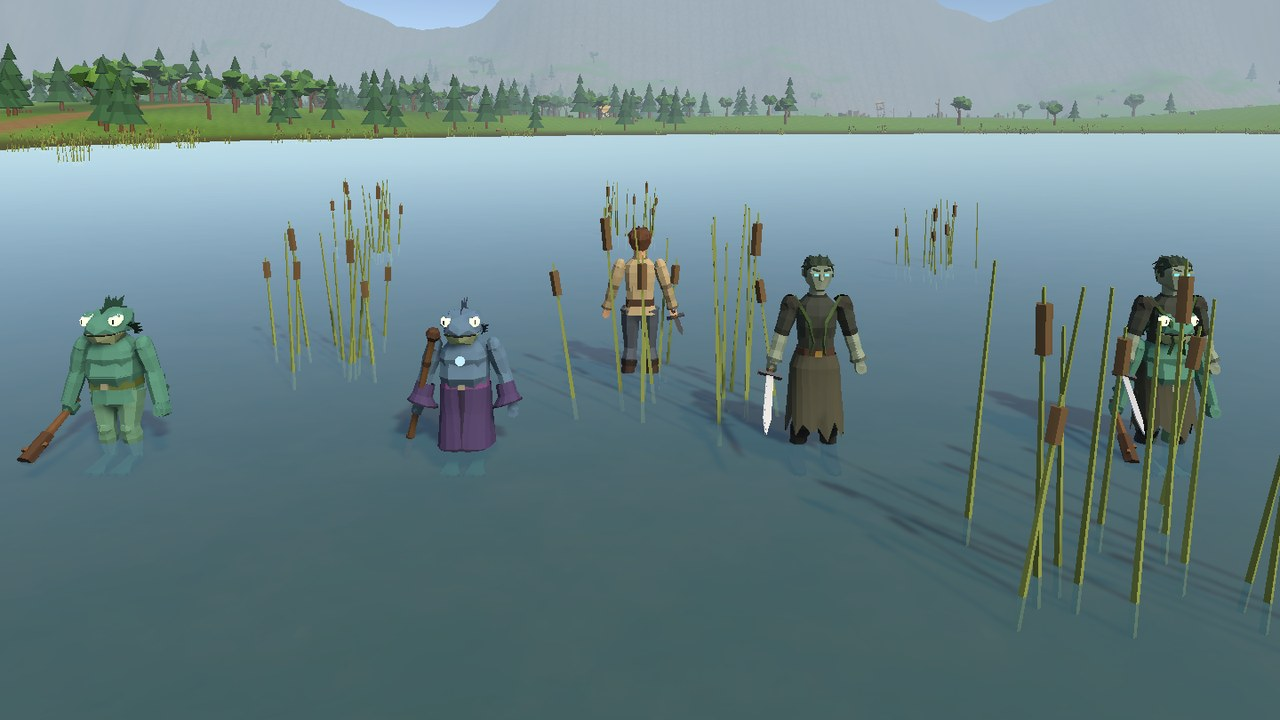
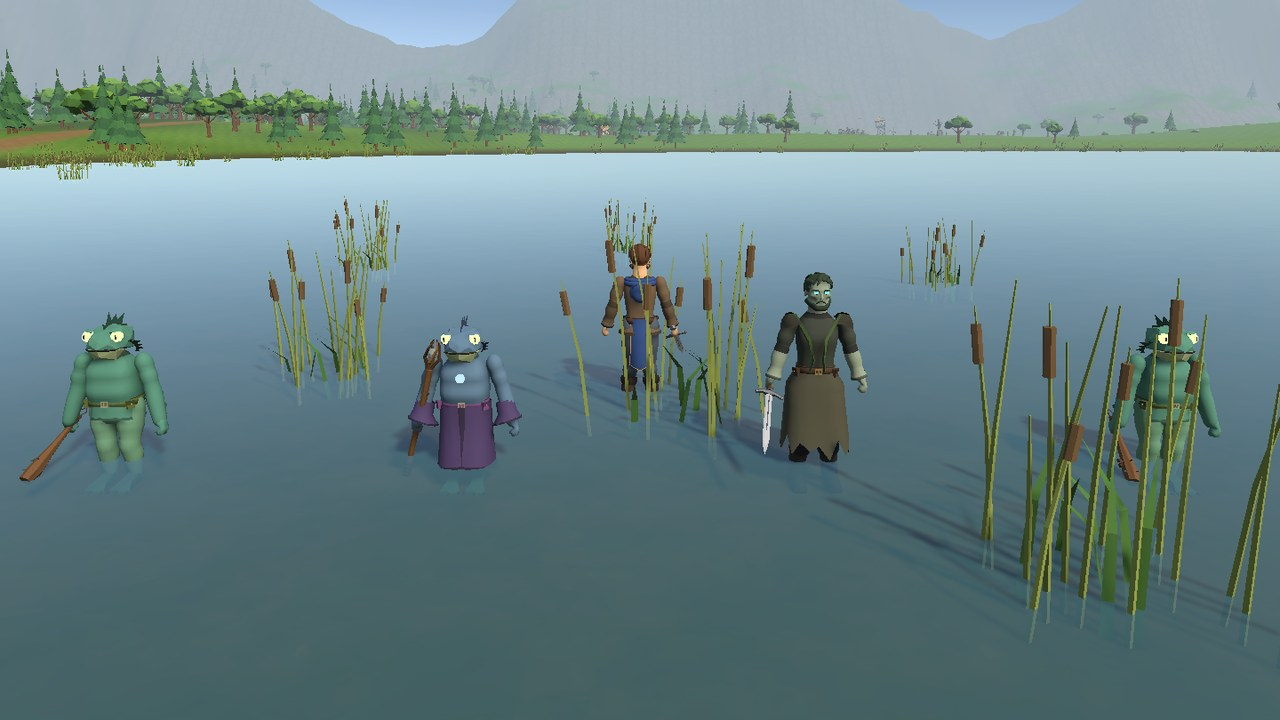
README: the heroes in their class looks, the lookbook, retaken character pictures
New pictures of the three classes in Mirewatch and the training camp, the
Blender lookbook, and the gear, NPC and mireling pictures retaken with the
sculpted models; a dev log entry.

diff --git a/README.md b/README.md
@@ -11,7 +11,7 @@
 ![.NET](https://img.shields.io/badge/.NET-10-512BD4?logo=dotnet)
 ![Tests](https://img.shields.io/badge/tests-154%20passing-brightgreen)
 
-<img src="docs/images/phase5-hero.jpg" alt="A human warrior in a steel breastplate, a human shardmage in a violet robe and a red-bearded Korrin warden with mace and shield on the square of Mirewatch, timber houses, the inn and watchtowers behind them" width="100%">
+<img src="docs/images/phase5-hero.jpg" alt="A human warrior in a blue cowl and tabard with a sword, a human shardmage in a long violet coat with a crystal staff and a red-bearded Korrin warden in teal with an axe and a tree-painted shield on the square of Mirewatch, timber houses, the inn and watchtowers behind them" width="100%">
 
 <sub><i>Phase 5: adventurers on the square of Mirewatch, the village of Hollowmere: a human warrior in a steel breastplate, a shardmage in a violet robe and a Korrin warden with his braided beard. The models, animations and the village itself are made by scripts in Blender and Unity.</i></sub>
 
@@ -58,8 +58,8 @@ Everything for the first real zone is in; what is left is putting a realm online
 |---|---|
 | Hollowmere | A 1 km valley around a shallow mere, generated by code: the village of Mirewatch, Westbrook's farms, the Reedfen marsh, the Greywood, the Shardscar quarry and the Drowned Ruins ([zone guide](docs/zones/hollowmere.md)) |
 | Content | 30 quests in six chains, 15 creature types, 10 NPCs and two bosses: Gloomjaw in its lagoon, and Ruukhar the Slagborn in the Cinder Cut with a slam to run from, a stacking burn and an enrage. Glowcap mushrooms to gather in the Greywood; area names on the minimap |
-| Art | Low-poly models made by Python scripts in Blender: two races and the fish-folk mirelings, creatures and bosses, weapons and 40 props, from Mirewatch's gates, palisade and timber grove houses to half-timbered cottages, the Muddy Boot inn, layered pines and leafy oaks ([ADR 0012](docs/adr/0012-art-pipeline-blender.md)). The races are stylized after classic fantasy MMOs: heroic proportions, faces with brows and eyes, swept hair, the Korrin's braided beard, cuffed boots; collars and cuffs follow the gear colors |
-| Gear | Worn armor is modeled: helmets, hoods and hats, shoulder pads and mantles, cloaks that trail behind a runner, robes whose skirts follow the legs, breastplates, gauntlets, greaves, sashes and aprons, built into every race's model from its own proportions. The NPCs wear them too |
+| Art | Low-poly models made by Python scripts in Blender: two races and the fish-folk mirelings, creatures and bosses, weapons and 40 props, from Mirewatch's gates, palisade and timber grove houses to half-timbered cottages, the Muddy Boot inn, layered pines and leafy oaks ([ADR 0012](docs/adr/0012-art-pipeline-blender.md)). The races are stylized after classic fantasy MMOs and sculpted like clay (shapes blended into each other, shaded smoothly): square jaws and heavy brows, eyes with lids, thick swept hair, the Korrin's great braided beard and topknot, muscled arms that bend at the elbow, chunky fists and boots. Body, hair, beard and every gear piece are meshes of their own, each in three levels of detail |
+| Gear | Worn armor is modeled: helmets, hoods and hats, shoulder pads and mantles, cloaks that trail behind a runner, robes whose skirts follow the legs, breastplates with tassets and gilded rims, gauntlets, greaves, sashes and aprons, and the classes' looks: tabards, a cowl with its hood thrown back, the shardmage's long coat with split tails and a glowing crystal, a warden's straps and a cloak with the Greywood's tree. Built into every race's model from its own proportions; the NPCs wear them too |
 | Animation | 16 humanoid clips made once and retargeted to every race; creatures have their own |
 | Sound | Synthesized music and ambience per area, footsteps that splash in the water, swings, hits, spells by school, jingles; effects from Kenney's CC0 packs ([credits](CREDITS.md)) |
 | Getting around | Sprint on stamina (Shift); the world map and minimap circle where each quest objective is done, worked out from where the creatures live (labeled with the quest's level, colored by how hard it is for you), and a gold "?" shows where to turn in a finished quest (on the minimap's rim when it is far away); lootable corpses shimmer; symbols over vendors and the innkeeper; bigger click targets and clickable nameplates |
@@ -71,11 +71,11 @@ Everything for the first real zone is in; what is left is putting a realm online
 <table>
   <tr>
     <td width="50%"><img src="docs/images/phase5-hollowmere.jpg" alt="The village of Mirewatch inside its palisade on the shore of the mere"></td>
-    <td width="50%"><img src="docs/images/phase5-gear.jpg" alt="Three characters in modeled gear: a Korrin in the Bonecrown hood, a robe and a sash, a warrior with helm, fur mantle, breastplate, greaves and cloak, a mage in a blue robe with pauldrons and a cloak"></td>
+    <td width="50%"><img src="docs/images/phase5-heroes.jpg" alt="Four characters in Mirewatch's training camp: a human warrior in a blue tabard and cowl, a red-bearded Korrin warden in teal with leather straps, an axe and a shield, a human shardmage in a long violet coat, and Captain Brand in gilded plate with a star on the chest, a blue tabard, cloak and a round steel shield with a gilded star"></td>
   </tr>
   <tr>
     <td><sub><b>Mirewatch.</b> The village inside its palisade on the shore of the mere, the Reedfen marsh and the Greywood beyond.</sub></td>
-    <td><sub><b>Gear.</b> A Korrin in the Bonecrown hood, a robe and a sash, a warrior with helm, fur mantle, breastplate, greaves and cloak, a mage in a blue robe: worn armor shows on the character, modeled for each race.</sub></td>
+    <td><sub><b>The heroes.</b> New characters start in their class's look: the warrior's blue tabard and cowl, the warden's teal tabard and straps, the shardmage's long violet coat. Captain Brand wears the full knight's plate and the star shield. Sculpted faces, hair and beards, shaded smoothly, in three levels of detail.</sub></td>
   </tr>
   <tr>
     <td><img src="docs/images/phase5-ruukhar.jpg" alt="Ruukhar the Slagborn, a hulking brute in slag-iron plate with a beast's skull for a hood, fighting a warrior and a warden; a red circle on the ground under him"></td>
@@ -126,12 +126,20 @@ Everything for the first real zone is in; what is left is putting a realm online
     <td><sub><b>Turn in, from anywhere.</b> Far away, the gold "?" waits on the minimap's rim, pointing toward the quest's ender (left); close by, it marks the NPC (right).</sub></td>
   </tr>
   <tr>
-    <td><img src="docs/images/phase5-npcgear.jpg" alt="Seven NPCs in a row in modeled gear: a captain in helm, pauldrons, breastplate and cloak, a herbalist in a robe and pointed hat, the innkeeper in a dress and apron, a scout in hood and cloak, a priest in a white robe and the lieutenant in a horned helm, spiked pauldrons and a red cloak"></td>
-    <td><img src="docs/images/phase5-mirelings.jpg" alt="Two mirelings with fish heads, glowing eyes and fin crests, one in a violet robe, and two drowned dead in torn rags wading among reeds"></td>
+    <td><img src="docs/images/phase5-npcgear.jpg" alt="Seven NPCs in a row in modeled gear: a captain in helm, pauldrons, a gilded breastplate with a star, a blue tabard, cloak and a round star shield, a herbalist in a robe and pointed hat, the innkeeper in a dress and apron, a scout in hood and cloak, a priest in a white robe and the lieutenant in a horned helm, spiked pauldrons and a red cloak"></td>
+    <td><img src="docs/images/phase5-mirelings.jpg" alt="Mirelings with fish heads, glowing eyes and fin crests, one in a violet robe, and a drowned man in torn rags wading among reeds"></td>
   </tr>
   <tr>
-    <td><sub><b>Modeled gear.</b> Captain Brand's helm, pauldrons, breastplate and cloak, Tamsin's pointed hat, Marla's apron, Rennick's hood and cloak, Brother Aldous's robe and Vorn's horned helm: every piece is built into each race's model and moves with it.</sub></td>
+    <td><sub><b>Modeled gear.</b> Captain Brand's helm, pauldrons, gilded breastplate, tabard, cloak and star shield, Tamsin's pointed hat, Marla's apron, Rennick's hood and cloak, Brother Aldous's robe and Vorn's horned helm: every piece is built into each race's model and moves with it.</sub></td>
     <td><sub><b>The Reedfen's folk.</b> Mirelings have a model of their own (fish heads, glowing eyes, fins, webbed feet); the oracle wears a robe. The drowned dead wear rags and weed.</sub></td>
+  </tr>
+  <tr>
+    <td><img src="docs/images/phase5-lookbook.jpg" alt="Blender renders of three outfits from the side and the back: a knight in gilded plate with a blue cowl and tabard, a mage in a violet coat with split tails, a Korrin with a fur mantle and a cloak with a golden tree"></td>
+    <td><img src="docs/images/phase5-gear.jpg" alt="Three characters in modeled gear: a Korrin in the Bonecrown hood, a robe and a sash, a warrior with helm, leather pads, breastplate with tassets, greaves and cloak, a shardmage in a violet coat with pauldrons and a cloak"></td>
+  </tr>
+  <tr>
+    <td><sub><b>The lookbook.</b> <code>art/blender/lookbook.py</code> renders the races in outfits (front, side, back, poses, faces) to compare them with their reference sheets without Unity: the knight, the shardmage's coat, the warden's fur mantle and cloak with the Greywood's tree.</sub></td>
+    <td><sub><b>Gear.</b> A Korrin in the Bonecrown hood, a robe and a sash, a warrior with helm, leather pads, breastplate, greaves and cloak, a shardmage in the violet coat with pauldrons: worn armor shows on the character, modeled for each race.</sub></td>
   </tr>
   <tr>
     <td><img src="docs/images/phase5-beasts.jpg" alt="A grey wolf with a ruff, a bristly boar and a big brown bear with a shaggy hump on a meadow"></td>
@@ -261,6 +269,7 @@ The **core loop** is in: take a quest, go out and fight, loot, get better gear, 
     <td valign="top">
       <b>Dev log</b>
       <ul>
+        <li><sub><b>2026-10-27 – The heroes.</b> Characters remodeled after reference sheets for the three classes: heads, hair and beards sculpted like clay and shaded smoothly, limbs that bend at the joints, body, hair, beard and gear as separate meshes in three levels of detail. New characters start in their class's look (the warrior's tabard and cowl, the shardmage's long coat, the warden's straps); new tabards, a coat, a tree cloak, a knight's star shield and a warden's shield; a lookbook renders outfits in Blender.</sub></li>
         <li><sub><b>2026-10-21 – Modeled gear.</b> Helmets, hoods, hats, pads, cloaks, robes, breastplates, gauntlets and greaves are now modeled pieces built into every race's model; the NPCs wear them. Mirelings got their own model; the frog, wolf, boar, bear, spider and shardling were remodeled; Mirewatch got new gates, an inn, cottages, a well, stalls and watchtowers; new trees, rocks and clutter all over the valley; detailed weapons; weapons rest pointing down, staffs stand upright, shields sit on the forearm.</sub></li>
         <li><sub><b>2026-10-20 – Characters and maps.</b> Both races remodeled in Blender after classic fantasy MMOs; finished quests show where to turn them in, from anywhere on the maps; quest levels on the world map; two action bars that hold potions and elixirs too.</sub></li>
         <li><sub><b>2026-10-19 – Phase 5: Hollowmere.</b> The first real zone, generated by code, with low-poly art from Blender scripts, synthesized music, 30 quests and two bosses. Then the polish: sprint, rested experience, quest areas on the maps, NPC symbols, item comparison, a spellbook and an action bar you arrange.</sub></li>
